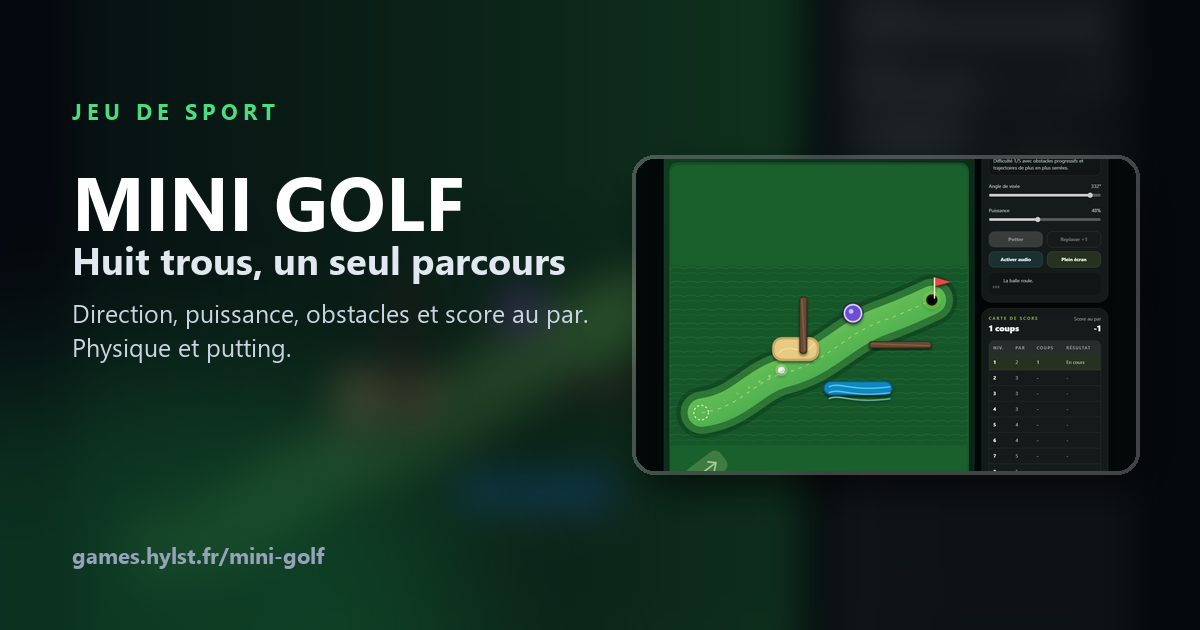
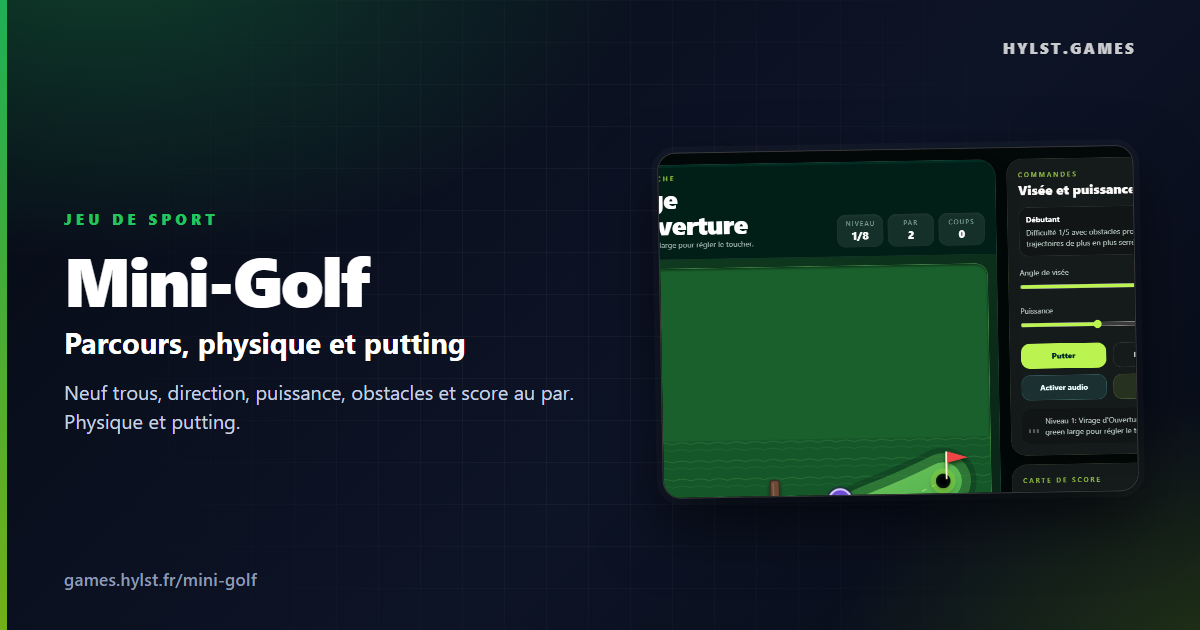
Renommage : Mini-Golf

diff --git a/index.html b/index.html
@@ -3,20 +3,20 @@
   <head>
     <meta charset="UTF-8" />
     <meta name="viewport" content="width=device-width, initial-scale=1.0" />
-    <title>Mini Golf : parcours, physique et putting</title>
-    <meta name="description" content="Mini Golf : enchaînez les trous, réglez la direction et la puissance, évitez les obstacles et comparez votre score au par. Neuf trous et physique." />
+    <title>Mini-Golf : parcours, physique et putting</title>
+    <meta name="description" content="Mini-Golf : enchaînez les trous, réglez la direction et la puissance, évitez les obstacles et comparez votre score au par. Neuf trous et physique." />
     <meta name="keywords" content="mini golf, golf, putting, parcours, physique, jeu de sport, jeu gratuit, jeu français, hylst" />
     <meta property="og:type" content="website" />
-    <meta property="og:title" content="Mini Golf" />
+    <meta property="og:title" content="Mini-Golf" />
     <meta property="og:description" content="Neuf trous, direction, puissance, obstacles et score au par. Physique et scores." />
-    <meta property="og:image" content="https://games.hylst.fr/mini-golf/og-image.png" />
+    <meta property="og:image" content="https://games.hylst.fr/mini-golf/og-image.png?v=2" />
     <meta property="og:url" content="https://games.hylst.fr/mini-golf/" />
     <meta property="og:site_name" content="Hylst.Games" />
     <meta property="og:locale" content="fr_FR" />
     <meta name="twitter:card" content="summary_large_image" />
-    <meta name="twitter:title" content="Mini Golf" />
+    <meta name="twitter:title" content="Mini-Golf" />
     <meta name="twitter:description" content="Neuf trous, direction, puissance, obstacles et score au par. Physique et scores." />
-    <meta name="twitter:image" content="https://games.hylst.fr/mini-golf/og-image.png" />
+    <meta name="twitter:image" content="https://games.hylst.fr/mini-golf/og-image.png?v=2" />
     <meta name="robots" content="index, follow" />
     <meta name="theme-color" content="#0b2a1a" />
     <link rel="canonical" href="https://games.hylst.fr/mini-golf/" />
@@ -27,7 +27,7 @@
     <div id="root"></div>
     <noscript>
       <p style="margin: 2rem auto; max-width: 34rem; padding: 0 1rem; color: #e2e8f0; font: 16px/1.6 system-ui, sans-serif">
-        Mini Golf a besoin de JavaScript pour fonctionner. Activez-le puis rechargez la page.
+        Mini-Golf a besoin de JavaScript pour fonctionner. Activez-le puis rechargez la page.
       </p>
     </noscript>
     <script type="module" src="/src/main.tsx"></script>

diff --git a/README.md b/README.md
@@ -1,12 +1,12 @@
-# Mini Golf
+# Mini-Golf
 
 **Huit trous, direction, puissance et score au par.**
 
-Mini Golf propose huit trous de difficulté progressive, du green large au parcours à portes mobiles. Réglez l'angle de visée et la puissance, puis puttez : la balle roule, rebondit sur les rails, ralentit dans le sable et tombe dans l'eau avec un coup de pénalité. La carte de score suit les coups, le par et le résultat trou par trou ; le total au par donne la performance de la partie. Sons synthétisés dans le navigateur, plein écran et commandes tactiles.
+Mini-Golf propose huit trous de difficulté progressive, du green large au parcours à portes mobiles. Réglez l'angle de visée et la puissance, puis puttez : la balle roule, rebondit sur les rails, ralentit dans le sable et tombe dans l'eau avec un coup de pénalité. La carte de score suit les coups, le par et le résultat trou par trou ; le total au par donne la performance de la partie. Sons synthétisés dans le navigateur, plein écran et commandes tactiles.
 
 Joue ici : [games.hylst.fr/mini-golf/](https://games.hylst.fr/mini-golf/)
 
-![Mini Golf](public/og-image.png)
+![Mini-Golf](public/og-image.png)
 
 ## Fonctionnalités
 
